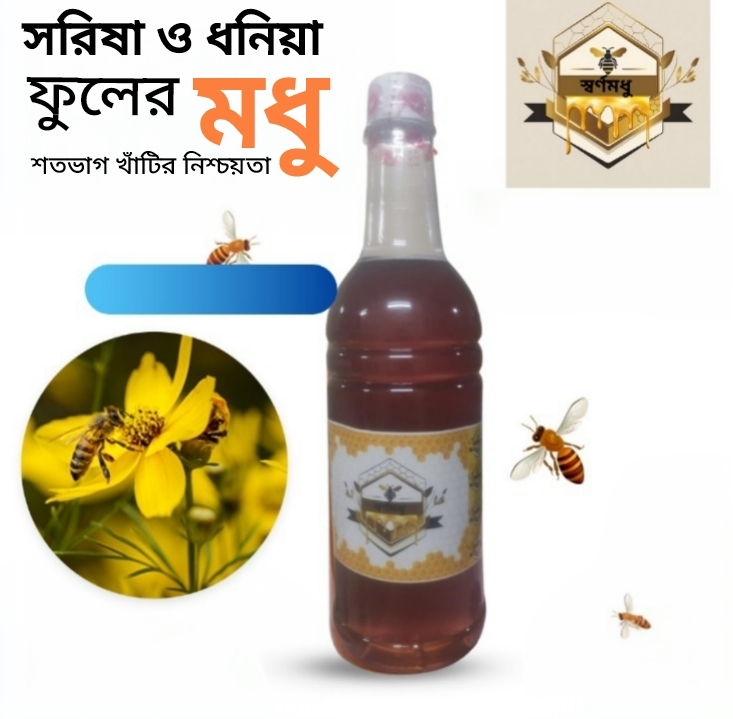
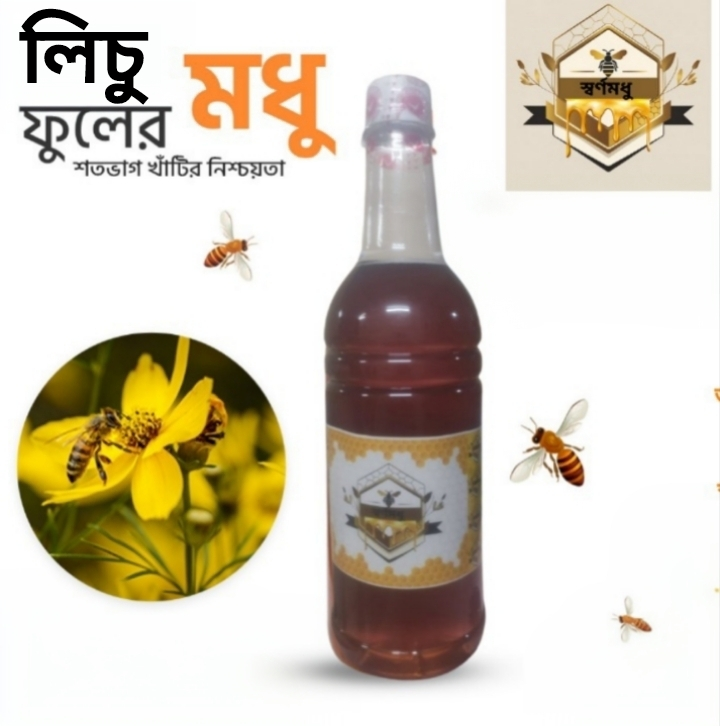
add all

diff --git a/src/app/dashboard/page.jsx b/src/app/dashboard/page.jsx
@@ -417,7 +417,7 @@ export default function AdminDashboard() {
                                                     <div className="flex-1">
                                                         <h3 className="text-lg font-semibold mb-1">{p.name}</h3>
                                                         <div className="flex items-center justify-between">
-                                                            <div className="text-sm text-amber-700 line-through">৳{p.discount ?? ''}</div>
+                                                            {p.discount && <div className="text-sm text-amber-700 line-through">৳{p.discount ?? ''}</div>}
                                                             <div className="text-2xl font-bold text-amber-800">৳{p.price}</div>
                                                         </div>
                                                     </div>
@@ -540,97 +540,103 @@ export default function AdminDashboard() {
             </div>
 
             {/* Edit Product Modal */}
-            {editModal && (
-                <Modal onClose={() => setEditModal(null)}>
-                    <div className="space-y-3">
-                        <h3 className="text-lg font-semibold">{editModal.name}</h3>
-                        <img src={editModal.img} alt={editModal.name} className="h-36 object-contain mx-auto" />
-                        <div>
-                            <label className="text-sm text-amber-700">মূল্য (৳)</label>
-                            <input type="number" value={editModal.price} onChange={(e) => setEditModal({ ...editModal, price: e.target.value })} className="w-full p-2 border rounded mt-1" />
+            {
+                editModal && (
+                    <Modal onClose={() => setEditModal(null)}>
+                        <div className="space-y-3">
+                            <h3 className="text-lg font-semibold">{editModal.name}</h3>
+                            <img src={editModal.img} alt={editModal.name} className="h-36 object-contain mx-auto" />
+                            <div>
+                                <label className="text-sm text-amber-700">মূল্য (৳)</label>
+                                <input type="number" value={editModal.price} onChange={(e) => setEditModal({ ...editModal, price: e.target.value })} className="w-full p-2 border rounded mt-1" />
+                            </div>
+                            <div className="flex gap-2 justify-end">
+                                <button
+                                    onClick={() => handleDelete(editModal._id, editModal.url)}
+                                    className="px-4 py-2 rounded border bg-red-500 text-white "
+                                >
+                                    ডিলেট
+                                </button>
+                                <button className="px-4 py-2 rounded border" onClick={() => setEditModal(null)}>Cancel</button>
+                                <button className="px-4 py-2 bg-green-500 text-white rounded" onClick={saveEdit} disabled={loadingIds[editModal._id]}>
+                                    {loadingIds[editModal._id] ? 'Saving...' : 'Save'}
+                                </button>
+                            </div>
                         </div>
-                        <div className="flex gap-2 justify-end">
-                            <button
-                                onClick={() => handleDelete(editModal._id, editModal.url)}
-                                className="px-4 py-2 rounded border bg-red-500 text-white "
-                            >
-                                ডিলেট
-                            </button>
-                            <button className="px-4 py-2 rounded border" onClick={() => setEditModal(null)}>Cancel</button>
-                            <button className="px-4 py-2 bg-green-500 text-white rounded" onClick={saveEdit} disabled={loadingIds[editModal._id]}>
-                                {loadingIds[editModal._id] ? 'Saving...' : 'Save'}
-                            </button>
-                        </div>
-                    </div>
-                </Modal>
-            )}
+                    </Modal>
+                )
+            }
 
             {/* Order Detail Modal */}
-            {orderModal && (
-                <Modal onClose={() => setOrderModal(null)}>
-                    <div className="space-y-3">
-                        <h3 className="text-lg font-semibold">অর্ডার ডিটেইল</h3>
-                        <div className="grid grid-cols-1 gap-2">
-                            <div><strong>গ্রাহক:</strong> {orderModal.name}</div>
-                            <div><strong>মোবাইল:</strong> {orderModal.mobile}</div>
-                            <div><strong>ঠিকানা:</strong> {orderModal.address}, {orderModal.upazilla}, {orderModal.district}, {orderModal.division}</div>
-                            <div><strong>প্রোডাক্ট:</strong> {orderModal.productName}</div>
-                            <div><strong>পরিমান:</strong> {orderModal.quantity}</div>
-                            <div><strong>একক মূল্য:</strong> ৳{orderModal.price}</div>
-                            <div><strong>মোট মূল্য:</strong> ৳{orderModal.totalPrice ?? (orderModal.price * orderModal.quantity)}</div>
-                            <div><strong>ডেলিভারি চার্জ:</strong> ৳{orderModal.charge ?? 120}</div>
-                            <div><strong>স্ট্যাটাস:</strong> <span className={`px-2 py-1 rounded ${orderModal.status === 'pending' ? 'bg-yellow-100 text-amber-700' : 'bg-green-100 text-green-700'}`}>{orderModal.status}</span></div>
+            {
+                orderModal && (
+                    <Modal onClose={() => setOrderModal(null)}>
+                        <div className="space-y-3">
+                            <h3 className="text-lg font-semibold">অর্ডার ডিটেইল</h3>
+                            <div className="grid grid-cols-1 gap-2">
+                                <div><strong>গ্রাহক:</strong> {orderModal.name}</div>
+                                <div><strong>মোবাইল:</strong> {orderModal.mobile}</div>
+                                <div><strong>ঠিকানা:</strong> {orderModal.address}, {orderModal.upazilla}, {orderModal.district}, {orderModal.division}</div>
+                                <div><strong>প্রোডাক্ট:</strong> {orderModal.productName}</div>
+                                <div><strong>পরিমান:</strong> {orderModal.quantity}</div>
+                                <div><strong>একক মূল্য:</strong> ৳{orderModal.price}</div>
+                                <div><strong>মোট মূল্য:</strong> ৳{orderModal.totalPrice ?? (orderModal.price * orderModal.quantity)}</div>
+                                <div><strong>ডেলিভারি চার্জ:</strong> ৳{orderModal.charge ?? 120}</div>
+                                <div><strong>স্ট্যাটাস:</strong> <span className={`px-2 py-1 rounded ${orderModal.status === 'pending' ? 'bg-yellow-100 text-amber-700' : 'bg-green-100 text-green-700'}`}>{orderModal.status}</span></div>
+                            </div>
+
+                            {
+                                orderModal.status === 'pending' && (
+                                    <div className="flex gap-2 justify-end mt-3">
+                                        <button className="px-4 py-2 bg-red-500 text-white rounded" onClick={() => updateOrderStatus(orderModal._id, 'cancelled')}>বাতিল</button>
+                                        <button className="px-4 py-2 bg-green-500 text-white rounded" onClick={() => updateOrderStatus(orderModal._1d || orderModal._id, 'confirmed')}>Confirm</button>
+                                    </div>
+                                )
+                            }
+
                         </div>
-
-                        {
-                            orderModal.status === 'pending' && (
-                                <div className="flex gap-2 justify-end mt-3">
-                                    <button className="px-4 py-2 bg-red-500 text-white rounded" onClick={() => updateOrderStatus(orderModal._id, 'cancelled')}>বাতিল</button>
-                                    <button className="px-4 py-2 bg-green-500 text-white rounded" onClick={() => updateOrderStatus(orderModal._1d || orderModal._id, 'confirmed')}>Confirm</button>
-                                </div>
-                            )
-                        }
-
-                    </div>
-                </Modal>
-            )}
+                    </Modal>
+                )
+            }
 
             {/* Message Modal */}
-            {msgModal && (
-                <Modal onClose={() => setMsgModal(null)}>
-                    <div className="space-y-3">
-                        <h3 className="text-lg font-semibold">বার্তার বিস্তারিত</h3>
-                        <div className="grid gap-2">
-                            <div><strong>নাম:</strong> {msgModal.name}</div>
-                            <div><strong>মোবাইল:</strong> {msgModal.mobile}</div>
-                            <div><strong>বার্তা:</strong> <p className="mt-1 text-amber-800">{msgModal.message}</p></div>
-                            <div><strong>তারিখ:</strong> {msgModal.createdAt ? new Date(msgModal.createdAt).toLocaleString("bn-BD") : 'N/A'}</div>
-                        </div>
+            {
+                msgModal && (
+                    <Modal onClose={() => setMsgModal(null)}>
+                        <div className="space-y-3">
+                            <h3 className="text-lg font-semibold">বার্তার বিস্তারিত</h3>
+                            <div className="grid gap-2">
+                                <div><strong>নাম:</strong> {msgModal.name}</div>
+                                <div><strong>মোবাইল:</strong> {msgModal.mobile}</div>
+                                <div><strong>বার্তা:</strong> <p className="mt-1 text-amber-800">{msgModal.message}</p></div>
+                                <div><strong>তারিখ:</strong> {msgModal.createdAt ? new Date(msgModal.createdAt).toLocaleString("bn-BD") : 'N/A'}</div>
+                            </div>
 
-                        <div className="flex gap-2 justify-end mt-3">
-                            <button
-                                className="px-4 py-2 rounded border"
-                                onClick={() => setMsgModal(null)}
-                            >
-                                বন্ধ করুন
-                            </button>
-                            <button
-                                className="px-4 py-2 bg-red-500 text-white rounded"
-                                onClick={() => {
-                                    deleteMessage(msgModal._id);
-                                    setMsgModal(null);
-                                }}
-                                disabled={loadingIds[msgModal._id]}
-                            >
-                                {loadingIds[msgModal._id] ? 'মুছানো হচ্ছে...' : 'ডিলিট'}
-                            </button>
+                            <div className="flex gap-2 justify-end mt-3">
+                                <button
+                                    className="px-4 py-2 rounded border"
+                                    onClick={() => setMsgModal(null)}
+                                >
+                                    বন্ধ করুন
+                                </button>
+                                <button
+                                    className="px-4 py-2 bg-red-500 text-white rounded"
+                                    onClick={() => {
+                                        deleteMessage(msgModal._id);
+                                        setMsgModal(null);
+                                    }}
+                                    disabled={loadingIds[msgModal._id]}
+                                >
+                                    {loadingIds[msgModal._id] ? 'মুছানো হচ্ছে...' : 'ডিলিট'}
+                                </button>
+                            </div>
                         </div>
-                    </div>
-                </Modal>
-            )}
+                    </Modal>
+                )
+            }
 
             <ToastContainer position="bottom-right" autoClose={2000} />
-        </div>
+        </div >
     );
 }
 

diff --git a/src/app/components/about/page.jsx b/src/app/components/about/page.jsx
@@ -4,7 +4,7 @@ import Image from "next/image";
 import { useEffect } from "react";
 
 export default function About() {
-    
+
     useEffect(() => {
         document.title === 'স্বর্ণমধু || সম্পর্কে'
     }, []);
@@ -156,6 +156,132 @@ export default function About() {
                         </p>
                     </div>
                 </div>
+
+                {/* লিচু ফুল */}
+
+                <div className="flex flex-col md:flex-row items-start gap-6">
+                    <div className="md:w-1/2">
+                        <Image
+                            src='/category/img5.jpg'
+                            alt="লিচু ফুলের মধু"
+                            className="rounded-2xl shadow-lg"
+                            width={500}
+                            height={500}
+                        />
+                    </div>
+                    <div className="md:w-1/2 text-gray-800">
+                        <h2 className="text-3xl font-bold mb-4 text-yellow-900">লিচু ফুলের মধু</h2>
+                        <p className="mb-4">
+                            লিচু ফুলের মধু সুগন্ধি, হালকা মিষ্টি ও অনন্য স্বাদের এক প্রাকৃতিক উপহার। এতে রয়েছে ভিটামিন, খনিজ এবং অ্যান্টিঅক্সিডেন্ট যা শরীরের রোগ প্রতিরোধ ক্ষমতা বাড়াতে সাহায্য করে।
+                        </p>
+                        <ul className="list-disc list-outside px-3 space-y-2 mb-4">
+                            <li>শক্তি ও সতেজতা প্রদান করে – শরীরকে ক্লান্তি থেকে মুক্তি দিয়ে কর্মক্ষম রাখে।</li>
+                            <li>পাচনতন্ত্রের জন্য উপকারী – হজমে সহায়তা করে এবং গ্যাস্ট্রিক ও অম্লতা কমায়।</li>
+                            <li>রোগ প্রতিরোধ ক্ষমতা বাড়ায় – ব্যাকটেরিয়া ও ভাইরাসের আক্রমণ থেকে শরীরকে সুরক্ষা দেয়।</li>
+                            <li>ত্বক ও সৌন্দর্যের জন্য উপকারী – প্রাকৃতিক অ্যান্টিঅক্সিডেন্ট ত্বককে সুস্থ ও উজ্জ্বল রাখে।</li>
+                            <li>হৃদরোগের ঝুঁকি কমায় – রক্তচাপ নিয়ন্ত্রণে সহায়তা করে এবং রক্ত সঞ্চালন উন্নত করে।</li>
+                        </ul>
+                        <p className="font-semibold text-yellow-800">
+                            👉 সংক্ষেপে, লিচু ফুলের মধু শরীরের শক্তি, স্বাস্থ্য ও সৌন্দর্যের জন্য এক অনন্য প্রাকৃতিক খাদ্য।
+                        </p>
+                    </div>
+                </div>
+
+                {/* প্রাকৃতিক */}
+
+                <div className="flex flex-col md:flex-row items-start gap-6">
+                    <div className="md:w-1/2">
+                        <Image
+                            src='/category/img8.jpg'
+                            alt="গ্রামের প্রাকৃতিক চাকের মধু"
+                            className="rounded-2xl shadow-lg"
+                            width={500}
+                            height={500}
+                        />
+                    </div>
+                    <div className="md:w-1/2 text-gray-800">
+                        <h2 className="text-3xl font-bold mb-4 text-yellow-900">গ্রামের প্রাকৃতিক চাকের মধু</h2>
+                        <p className="mb-4">
+                            গ্রামের প্রাকৃতিক চাকের মধু প্রকৃতির এক অমূল্য উপহার। গ্রামীণ পরিবেশে
+                            কোনো কৃত্রিম উপাদান ছাড়াই মৌমাছিরা নানা ফুল থেকে সংগ্রহ করে এই মধু তৈরি করে।
+                            এর স্বাদ, ঘ্রাণ ও পুষ্টিগুণ একে করে তোলে বিশেষ।
+                        </p>
+                        <ul className="list-disc list-outside px-3 space-y-2 mb-4">
+                            <li>বিশুদ্ধ ও প্রাকৃতিক – কোনো প্রকার ভেজাল বা কৃত্রিম উপাদান থাকে না।</li>
+                            <li>রোগ প্রতিরোধ ক্ষমতা বৃদ্ধি করে – ভাইরাস ও ব্যাকটেরিয়ার বিরুদ্ধে সুরক্ষা দেয়।</li>
+                            <li>শক্তি ও পুষ্টির উৎস – শরীরকে শক্তি জোগায় এবং ক্লান্তি দূর করে।</li>
+                            <li>শিশু ও বৃদ্ধদের জন্য উপকারী – সহজে হজম হয় এবং রোগ প্রতিরোধে সহায়তা করে।</li>
+                            <li>প্রাকৃতিক অ্যান্টিবায়োটিক – ক্ষত বা ঘায়ের দ্রুত আরোগ্যে সাহায্য করে।</li>
+                        </ul>
+                        <p className="font-semibold text-yellow-800">
+                            👉 সংক্ষেপে, গ্রামের প্রাকৃতিক চাকের মধু প্রকৃতির কাছ থেকে পাওয়া বিশুদ্ধতম খাদ্য,
+                            যা শরীর ও মনের সুস্থতায় অনন্য ভূমিকা রাখে।
+                        </p>
+                    </div>
+                </div>
+
+                <div className="flex flex-col md:flex-row items-start gap-6">
+                    <div className="md:w-1/2">
+                        <Image
+                            src='/category/img6.jpg'
+                            alt="মিশ্র ফুলের মধু"
+                            className="rounded-2xl shadow-lg"
+                            width={500}
+                            height={500}
+                        />
+                    </div>
+                    <div className="md:w-1/2 text-gray-800">
+                        <h2 className="text-3xl font-bold mb-4 text-yellow-900">মিশ্র ফুলের মধু</h2>
+                        <p className="mb-4">
+                            মিশ্র ফুলের মধু মৌমাছিরা বিভিন্ন ঋতুতে নানা ধরনের ফুল থেকে সংগ্রহ করে।
+                            একসাথে বিভিন্ন ফুলের রস মিলে যায় বলে এর স্বাদ, ঘ্রাণ ও পুষ্টিগুণ হয় আরও অনন্য।
+                            এটি প্রকৃতির এক ভারসাম্যপূর্ণ ও বহুগুণে ভরপুর উপহার।
+                        </p>
+                        <ul className="list-disc list-outside px-3 space-y-2 mb-4">
+                            <li>বিভিন্ন ফুলের গুণাগুণ একসাথে পাওয়া যায়।</li>
+                            <li>শরীরকে শক্তি যোগায় এবং কর্মক্ষমতা বাড়ায়।</li>
+                            <li>অ্যান্টিঅক্সিডেন্ট সমৃদ্ধ – রোগ প্রতিরোধ ক্ষমতা উন্নত করে।</li>
+                            <li>গলা ব্যথা, সর্দি-কাশি ও হজমের সমস্যায় কার্যকর।</li>
+                            <li>মন ও শরীরকে সতেজ রাখে – মানসিক চাপ কমায়।</li>
+                        </ul>
+                        <p className="font-semibold text-yellow-800">
+                            👉 সংক্ষেপে, মিশ্র ফুলের মধু হলো নানা ফুলের সমন্বয়ে তৈরি একটি প্রাকৃতিক স্বাস্থ্যকর
+                            খাদ্য যা প্রতিদিনের পুষ্টির জন্য এক অসাধারণ সমাধান।
+                        </p>
+                    </div>
+                </div>
+
+                <div className="flex flex-col md:flex-row items-start gap-6">
+                    <div className="md:w-1/2">
+                        <Image
+                            src='/category/img7.jpg'
+                            alt="বরই ফুলের মধু"
+                            className="rounded-2xl shadow-lg"
+                            width={500}
+                            height={500}
+                        />
+                    </div>
+                    <div className="md:w-1/2 text-gray-800">
+                        <h2 className="text-3xl font-bold mb-4 text-yellow-900">বরই ফুলের মধু</h2>
+                        <p className="mb-4">
+                            বরই ফুলের মধু গ্রামবাংলার অন্যতম জনপ্রিয় প্রাকৃতিক মধু।
+                            মৌসুমে বরই ফুল থেকে সংগৃহীত এ মধুতে থাকে এক অনন্য স্বাদ ও ঘ্রাণ।
+                            এটি শুধু সুস্বাদুই নয়, স্বাস্থ্য রক্ষায়ও অত্যন্ত কার্যকর।
+                        </p>
+                        <ul className="list-disc list-outside px-3 space-y-2 mb-4">
+                            <li>হজমশক্তি উন্নত করে এবং গ্যাস্ট্রিক কমায়।</li>
+                            <li>সর্দি-কাশি ও গলা ব্যথায় উপকারী।</li>
+                            <li>শরীরকে ঠান্ডা রাখে ও রোগ প্রতিরোধ ক্ষমতা বাড়ায়।</li>
+                            <li>শক্তি জোগায় এবং ক্লান্তি দূর করে।</li>
+                            <li>ত্বক ও রক্ত পরিষ্কার রাখতে সাহায্য করে।</li>
+                        </ul>
+                        <p className="font-semibold text-yellow-800">
+                            👉 সংক্ষেপে, বরই ফুলের মধু হলো প্রকৃতির এক অমূল্য সম্পদ যা শরীর ও
+                            মনের সুস্থতার জন্য দারুণ উপকারী।
+                        </p>
+                    </div>
+                </div>
+
             </div>
         </div>
     );

diff --git a/src/app/layout.js b/src/app/layout.js
@@ -4,7 +4,7 @@ import { Analytics } from '@vercel/analytics/next';
 
 export const metadata = {
   title: "স্বর্ণমধু",
-  description: "আমরা প্রাকৃতিক ও স্বাস্থ্যকর মধু সরবরাহে প্রতিশ্রুতিবদ্ধ। সরাসরি সুন্দরবন এবং গ্রামীণ অঞ্চল থেকে সংগ্রহ করা চার প্রকার খাঁটি মধু অনলাইনে পৌঁছে দিই আপনার দরজায়। স্বাস্থ্য, শক্তি এবং প্রাকৃতিক সুস্থতাই আমাদের লক্ষ্য।",
+  description: "আমরা প্রাকৃতিক ও স্বাস্থ্যকর মধু সরবরাহে প্রতিশ্রুতিবদ্ধ। সরাসরি সুন্দরবন এবং গ্রামীণ অঞ্চল থেকে সংগ্রহ করা আট প্রকার খাঁটি মধু অনলাইনে পৌঁছে দিই আপনার দরজায়। স্বাস্থ্য, শক্তি এবং প্রাকৃতিক সুস্থতাই আমাদের লক্ষ্য।",
   icons: {
     icon: '/my-logo.png'
   }

diff --git a/src/app/components/HoneyPage.jsx b/src/app/components/HoneyPage.jsx
@@ -33,7 +33,7 @@ export default function HoneyPage() {
         <div className="py-4 px-6 pb-16 sm:pt-8 pt-6" ref={scrollView}>
             <div className="sm:text-4xl text-xl font-extrabold flex items-center gap-x-3 justify-center text-amber-600 text-center sm:mb-12 mb-5">
                 <div className="w-40 hidden sm:block h-0.5 bg-yellow-500"></div>
-                <h1> আমাদের প্রিমিয়াম মধু কালেকশন </h1>
+                <h1> আমাদের সকল পণ্যের কালেকশন </h1>
                 <img src="/category/honey.png" alt="" className="w-10 -mt-1" />
                 <div className="w-40 hidden sm:block h-0.5 bg-yellow-500"></div>
             </div>

diff --git a/src/app/components/Category.jsx b/src/app/components/Category.jsx
@@ -31,7 +31,7 @@ export default function Category() {
 
             {/* ক্যাটেগরি গ্রিড */}
             <div className="grid grid-cols-2 sm:grid-cols-4 gap-3 sm:gap-6">
-                {honeys ? honeys?.slice(0, 4).map((honey) => (
+                {honeys ? honeys?.slice(0, 8).map((honey) => (
                     <div
                         key={honey._id}
                         className="bg-white flex items-center justify-center rounded-2xl shadow-lg overflow-hidden hover:shadow-2xl relative hover:scale-105 transition-all duration-300"
